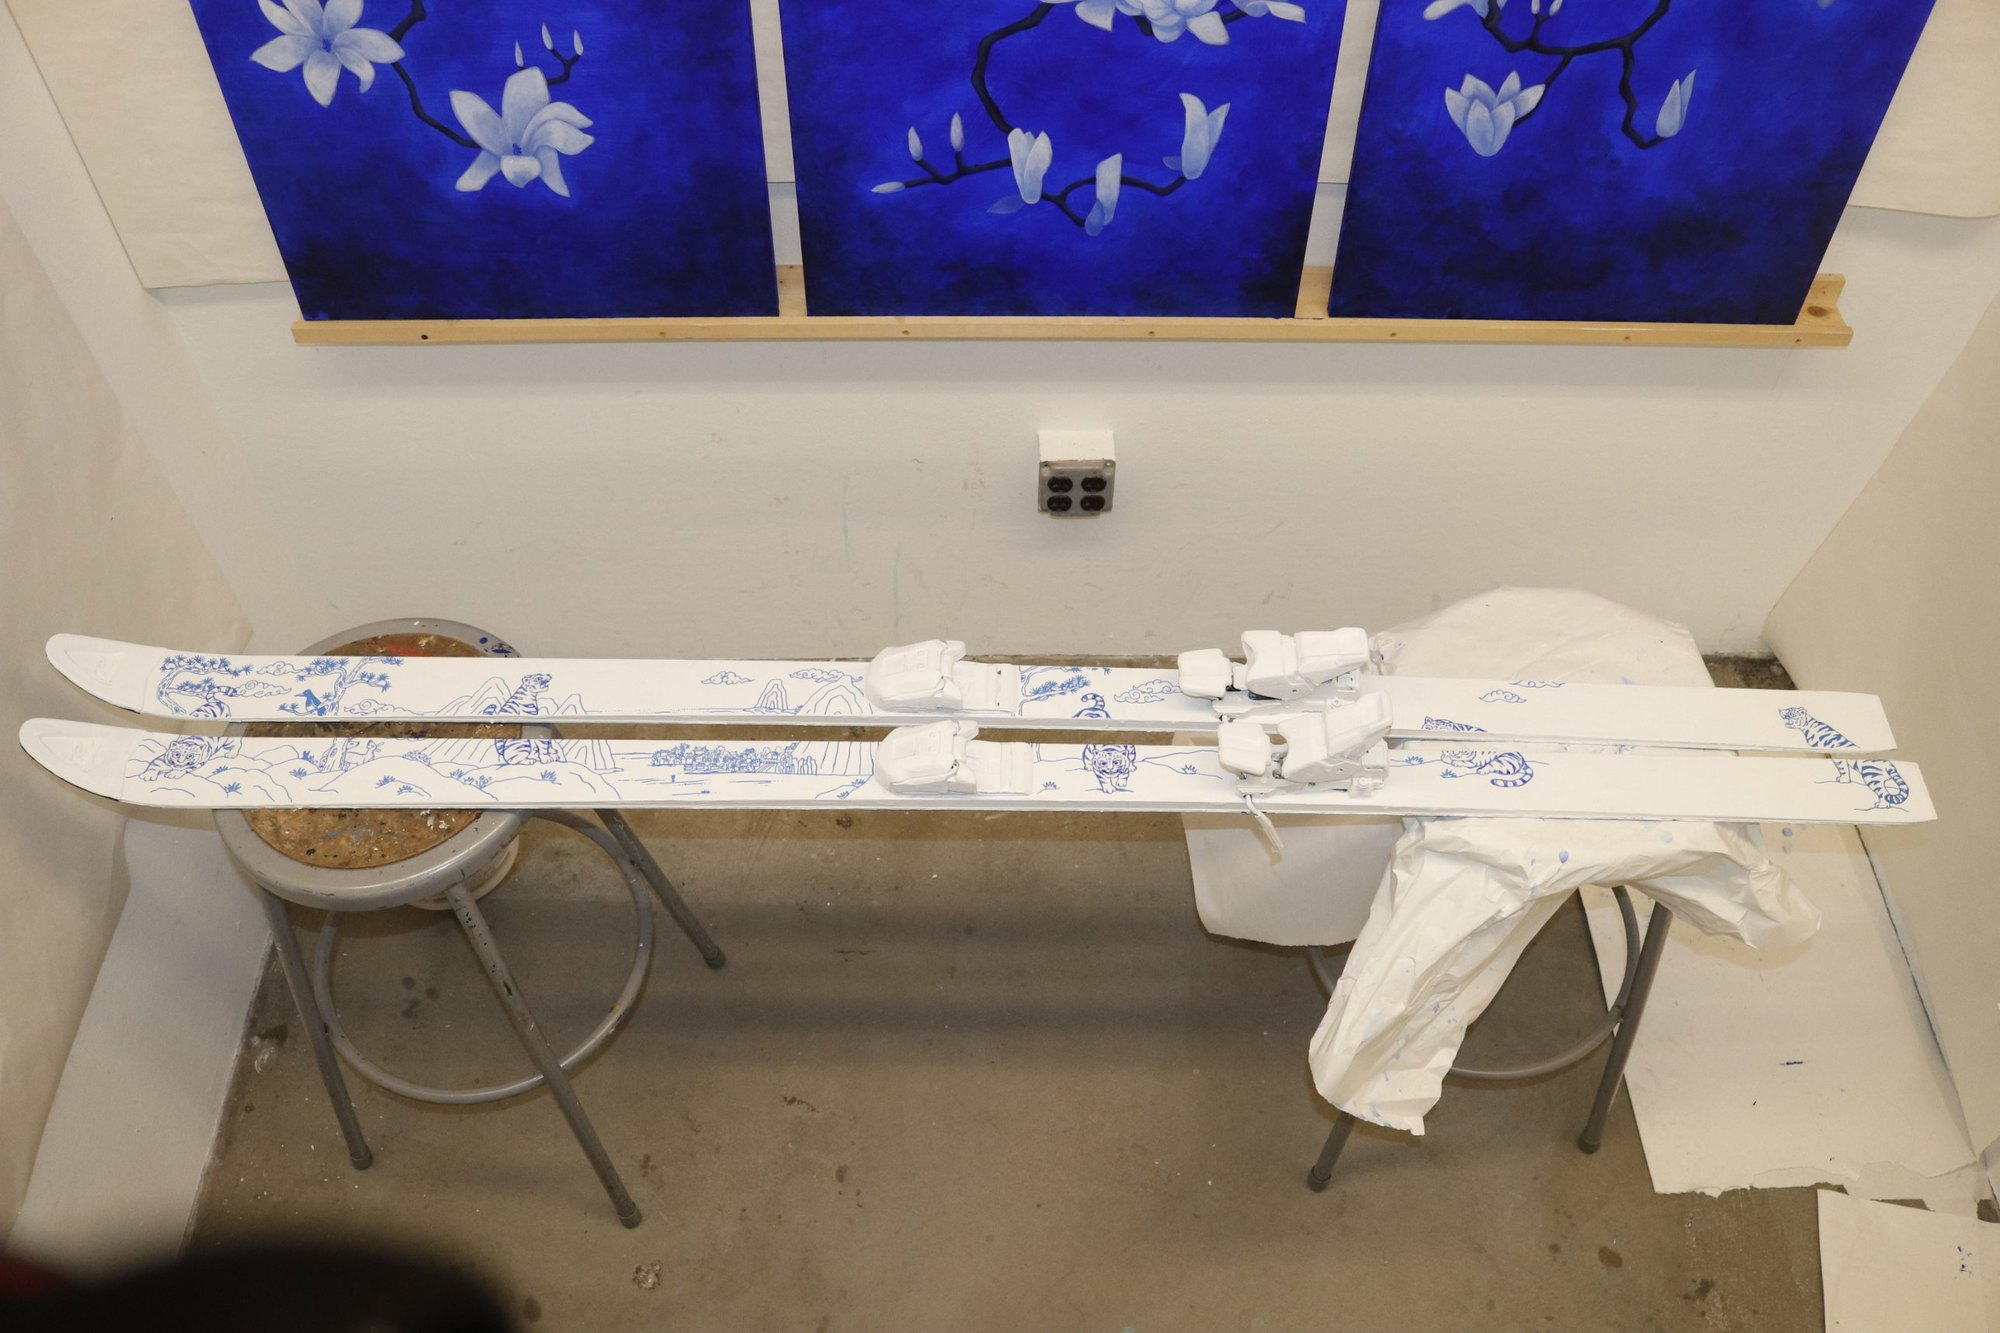
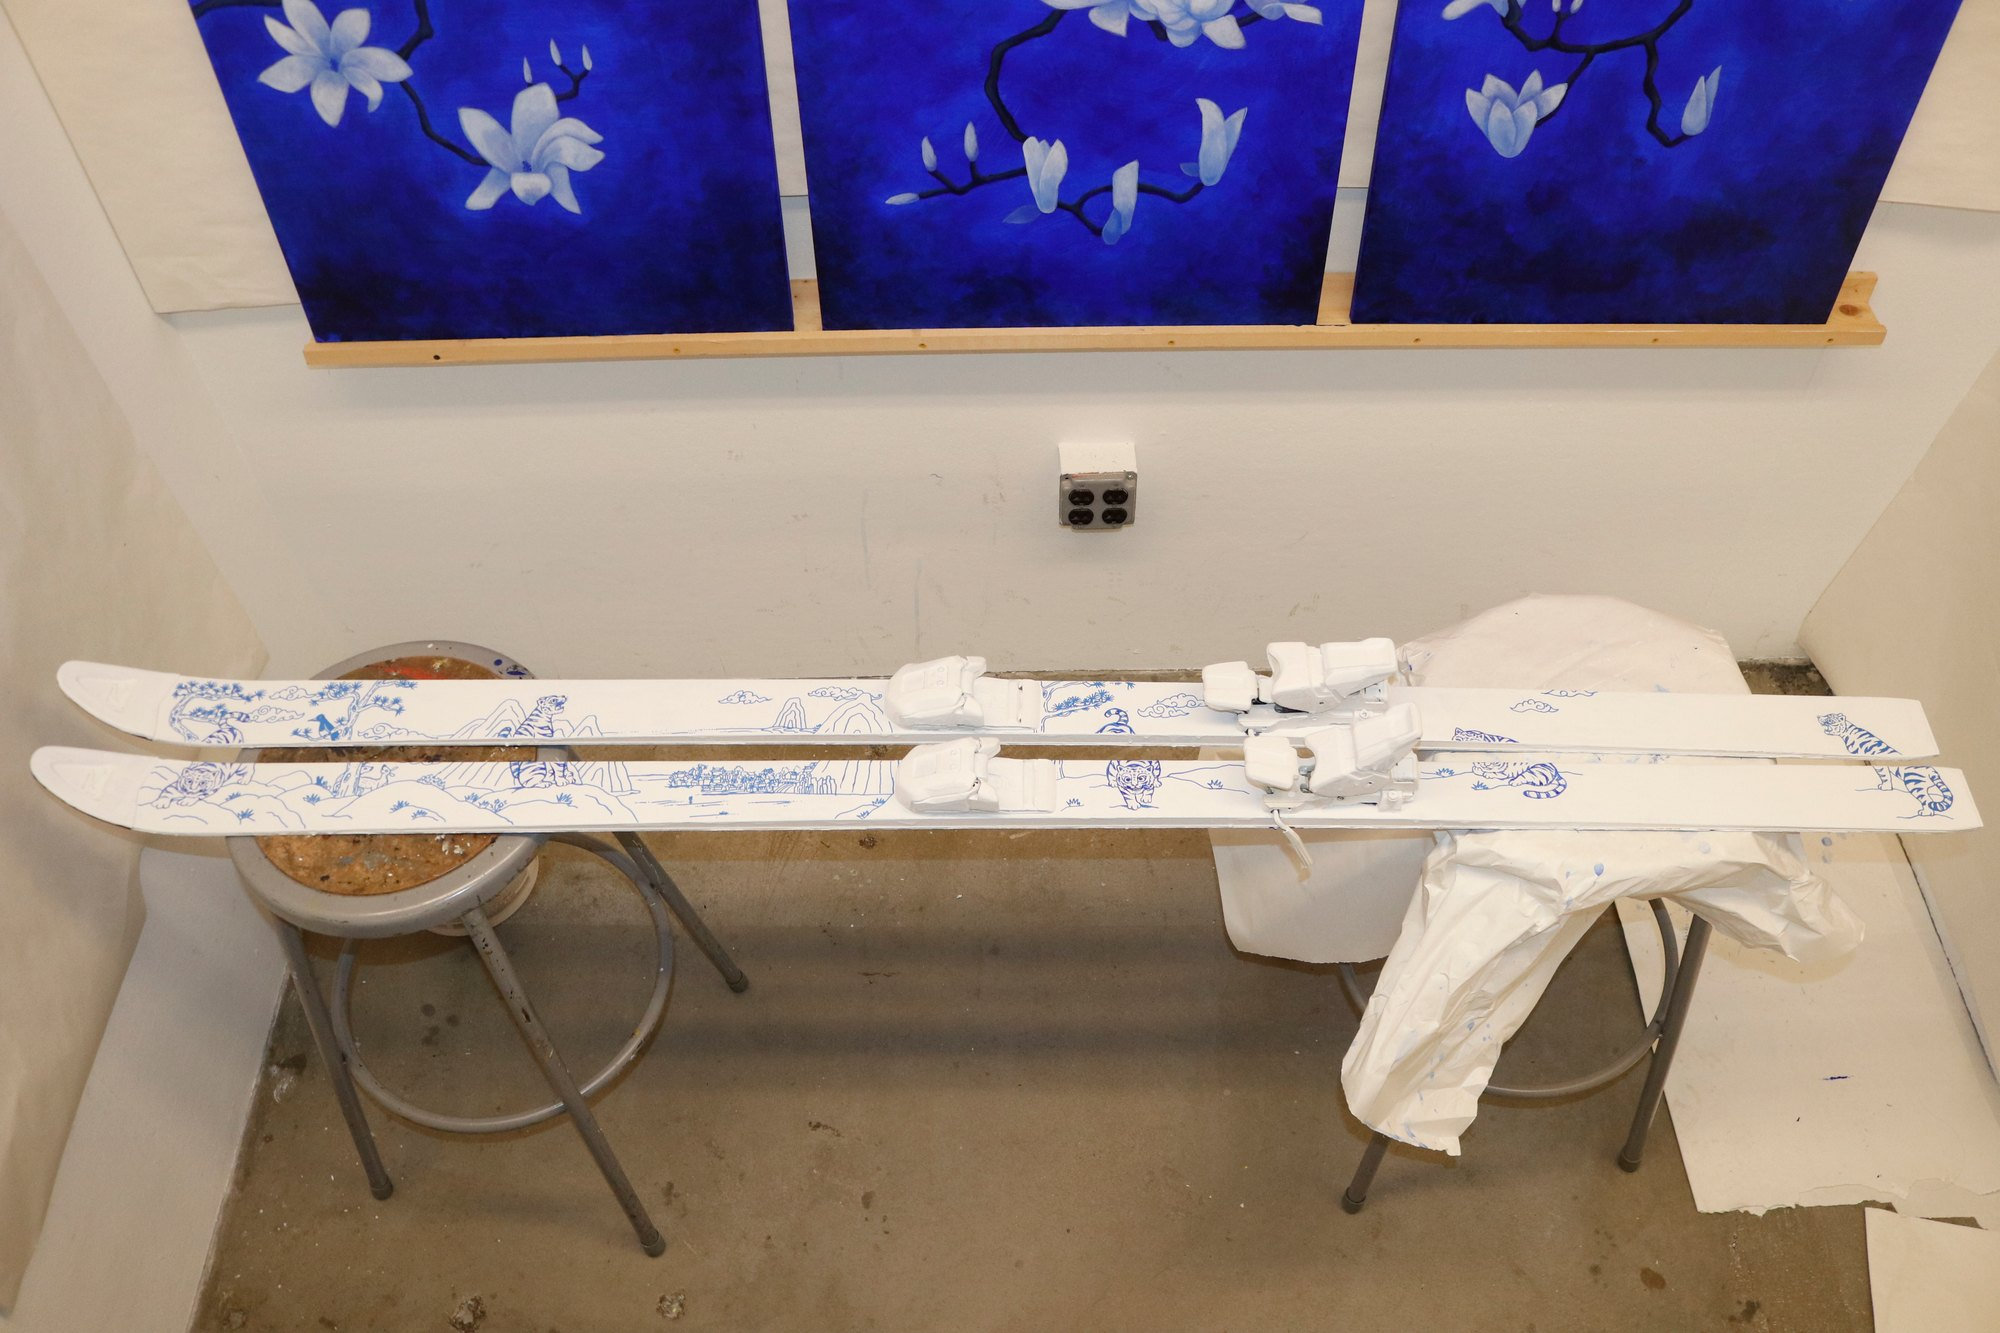
Ski project: correct photo colour

diff --git a/src/data/projects.ts b/src/data/projects.ts
@@ -671,17 +671,27 @@ const all: Project[] = [
       {
         type: "images",
         fitH: "4000px",
-        images: [{ src: "/projects/skis/photo-1.jpg", w: 2000, h: 1333, alt: "The pair of painted skis seen from above, with blue paintings on the wall behind" }],
+        images: [{ src: "/projects/skis/photo-1.jpg", w: 2000, h: 1333, alt: "The painted ski set laid out on stools in the studio, below three blue magnolia paintings" }],
+      },
+      {
+        type: "images",
+        images: [{ src: "/projects/skis/photo-2.jpg", w: 1457, h: 2000, alt: "A person in a white jacket carrying the ski set on one shoulder against a white backdrop" }],
+        maxWidth: 560,
       },
       {
         type: "images",
         fitH: "4000px",
-        images: [{ src: "/projects/skis/photo-3.jpg", w: 2000, h: 1333, alt: "Close-up of the bindings and the tigers drawn on the skis" }],
+        images: [{ src: "/projects/skis/photo-3.jpg", w: 2000, h: 1333, alt: "The tips of the skis, drawn with tigers, pines and clouds in blue ink" }],
       },
       {
         type: "images",
-        images: [{ src: "/projects/skis/photo-2.jpg", w: 1333, h: 2000, alt: "A white ski with blue ink drawing beside a ski painted ultramarine underneath" }],
+        images: [{ src: "/projects/skis/photo-4.jpg", w: 1333, h: 2000, alt: "A person in a white jacket holding the ski set across their shoulders, seen from above" }],
         maxWidth: 560,
+      },
+      {
+        type: "images",
+        fitH: "4000px",
+        images: [{ src: "/projects/skis/photo-5.jpg", w: 2000, h: 1333, alt: "Close-up of the bindings and the tigers drawn along the skis" }],
       },
     ],
   },
